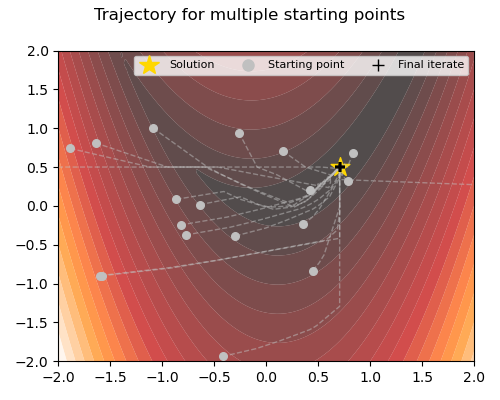
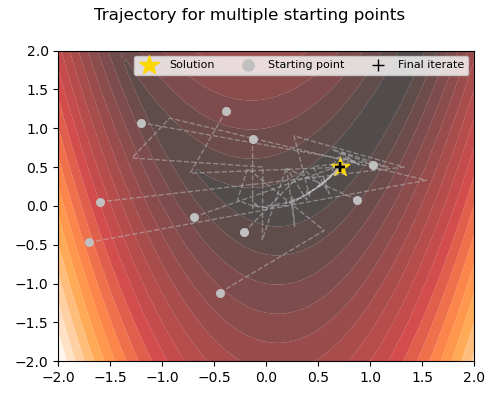
fix bug in old function, and add torch replacement

diff --git a/tests/test_functions.py b/tests/test_functions.py
@@ -1,6 +1,8 @@
 import torch
 
 from ncopt.functions.quadratic import Quadratic
+from ncopt.functions.rosenbrock import NonsmoothRosenbrock
+from ncopt.utils import compute_batch_jacobian_vmap
 
 d = 10
 b = 4
@@ -16,4 +18,32 @@ def test_quadratic():
 
     assert torch.allclose(out, expected[:, None])
     assert out.shape == torch.Size([b, 1])
+    return
+
+
+def test_rosenbrock():
+    inputs = torch.tensor(
+        [
+            [1.0866, 0.9348],
+            [0.2838, 0.1436],
+            [-0.4327, -1.1307],
+            [-0.4813, -0.9599],
+            [-0.4523, 0.7851],
+        ],
+        dtype=torch.float64,
+    )
+
+    expected_out = torch.tensor([[1.9746, 1.0174, 12.5960, 11.7266, 6.7533]], dtype=torch.float64).T
+
+    expected_jac = torch.tensor(
+        [[17.5588, -8.0], [-5.9732, 8.0], [-9.7886, -8.0], [-10.6634, -8.0], [4.3322, 8.0]],
+        dtype=torch.float64,
+    ).view(5, 1, 2)
+
+    model = NonsmoothRosenbrock(a=8.0)
+    jac, out = compute_batch_jacobian_vmap(model, inputs)
+
+    assert torch.allclose(out, expected_out, atol=1e-3)
+    assert torch.allclose(jac, expected_jac)
+
     return

diff --git a/example_rosenbrock.py b/example_rosenbrock.py
@@ -9,9 +9,11 @@ from matplotlib.lines import Line2D
 from ncopt.funs import f_rosenbrock, g_max
 from ncopt.sqpgs import SQPGS
 
+np.random.seed(1234)
+
 # %% Setup
 
-f = f_rosenbrock()
+f = f_rosenbrock(w=8.0)
 g = g_max()
 
 # could add this equality constraint
@@ -45,7 +47,6 @@ for j in np.arange(X.shape[0]):
 
 fig, ax = plt.subplots(figsize=(5, 4))
 
-np.random.seed(123)
 
 # Plot contour and solution
 ax.contourf(X, Y, Z, cmap="gist_heat", levels=20, alpha=0.7, antialiased=True, lw=0, zorder=0)
@@ -55,7 +56,7 @@ ax.contourf(X, Y, Z, cmap="gist_heat", levels=20, alpha=0.7, antialiased=True, l
 #             antialiased=True, linewidths=4, zorder=0)
 ax.scatter(xstar[0], xstar[1], marker="*", s=200, c="gold", zorder=1)
 
-for i in range(20):
+for i in range(10):
     x0 = np.random.randn(2)
     problem = SQPGS(f, gI, gE, x0, tol=1e-6, max_iter=100, verbose=False, store_history=True)
     x_k = problem.solve()
@@ -80,3 +81,5 @@ ax.legend(handles=legend_elements, ncol=3, fontsize=8)
 
 fig.tight_layout()
 fig.savefig("data/img/rosenbrock.png")
+
+# %%

diff --git a/src/ncopt/funs.py b/src/ncopt/funs.py
@@ -26,18 +26,18 @@ class f_rosenbrock:
         return np.abs(x[0] ** 2 - x[1]) > 1e-10
 
     def grad(self, x):
-        a = np.array([-2 + x[0], 0])
+        a = np.array([-2 + 2 * x[0], 0.0])
         sign = np.sign(x[0] ** 2 - x[1])
 
         if sign == 1:
-            b = np.array([2 * x[0], -1])
+            b = np.array([2 * x[0], -1.0])
         elif sign == -1:
-            b = np.array([-2 * x[0], 1])
+            b = np.array([-2 * x[0], 1.0])
         else:
-            b = np.array([-2 * x[0], 1])
+            b = np.array([-2 * x[0], 1.0])
 
         # b = np.sign(x[0]**2 -x[1]) * np.array([2*x[0], -1])
-        return a + b
+        return a + self.w * b
 
 
 class g_max:

diff --git a/src/ncopt/functions/rosenbrock.py b/src/ncopt/functions/rosenbrock.py
@@ -1,0 +1,22 @@
+import torch
+
+
+class NonsmoothRosenbrock(torch.nn.Module):
+    """A 2D nonsmooth Rosenbrock function, given by
+
+    x --> a*|x_1^2 - x_2| + (1-x_1)^2
+
+    """
+
+    def __init__(self, a: float = 8):
+        super().__init__()
+
+        self.a = a
+        return
+
+    def forward(self, x: torch.tensor) -> torch.tensor:
+        """x should be of shape (batch_size, 2)"""
+        out = self.a * torch.abs(x[:, 0] ** 2 - x[:, 1])
+        out += (1 - x[:, 0]) ** 2
+        out = out[:, None]  # need output shape (batch_size, 1)
+        return out

diff --git a/tests/test_rosenbrock.py b/tests/test_rosenbrock.py
@@ -7,8 +7,10 @@ import numpy as np
 from ncopt.funs import f_rosenbrock, g_linear, g_max
 from ncopt.sqpgs.main import SQPGS
 
-f = f_rosenbrock()
+f = f_rosenbrock(w=8.0)
 g = g_max()
+
+np.random.seed(12345)
 
 
 def test_rosenbrock_from_zero():
